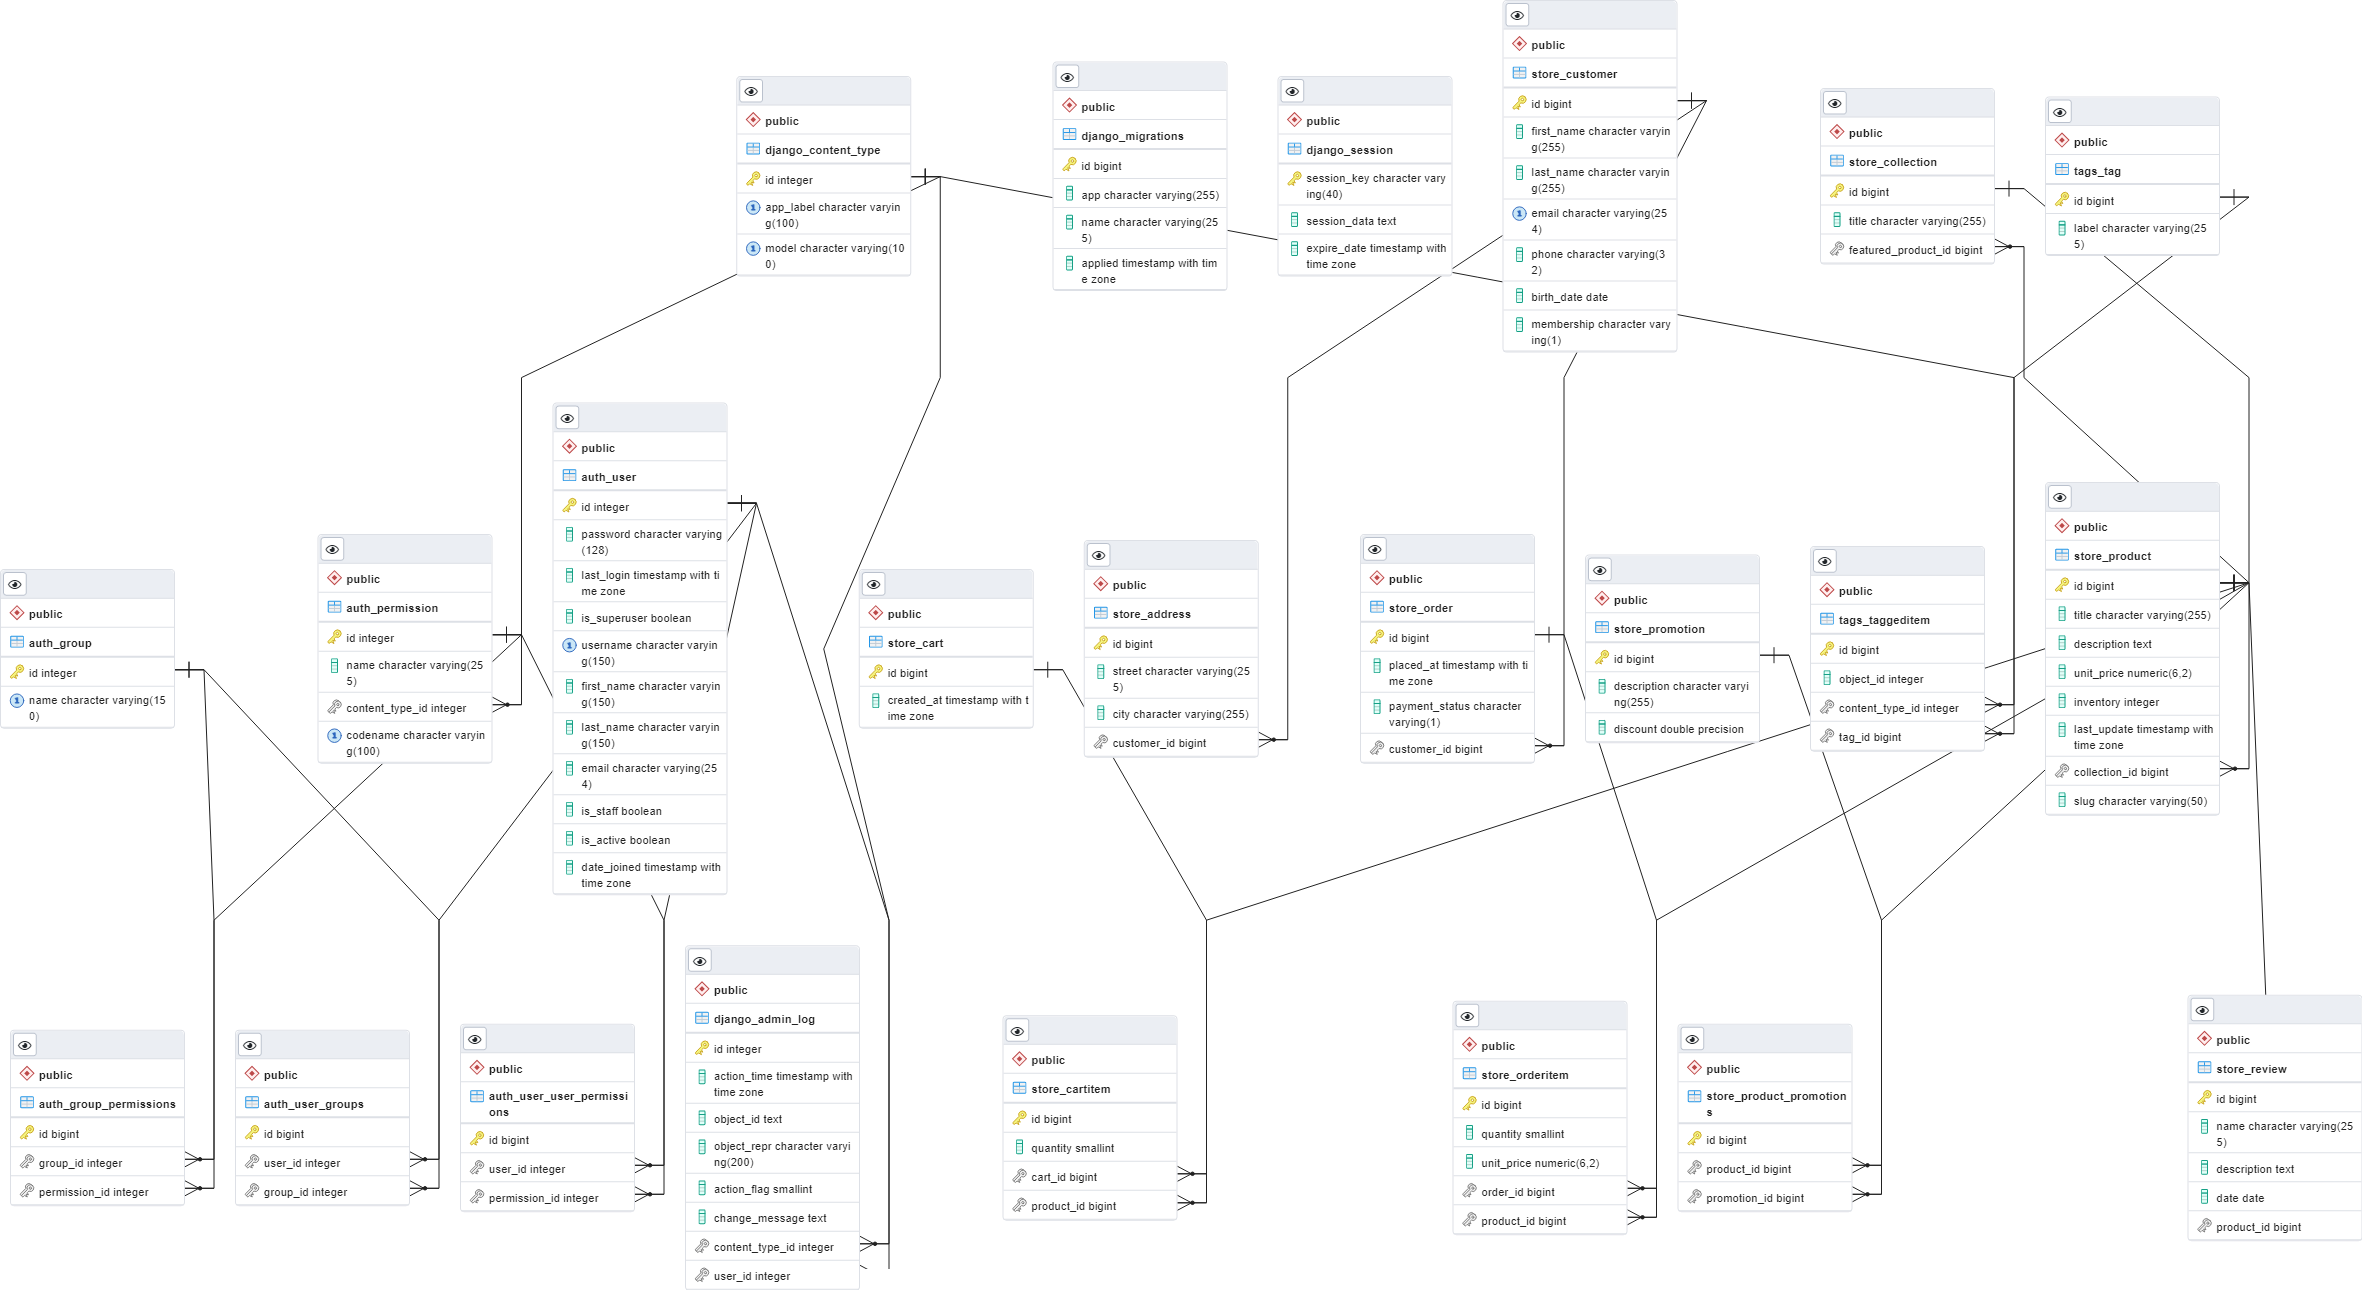
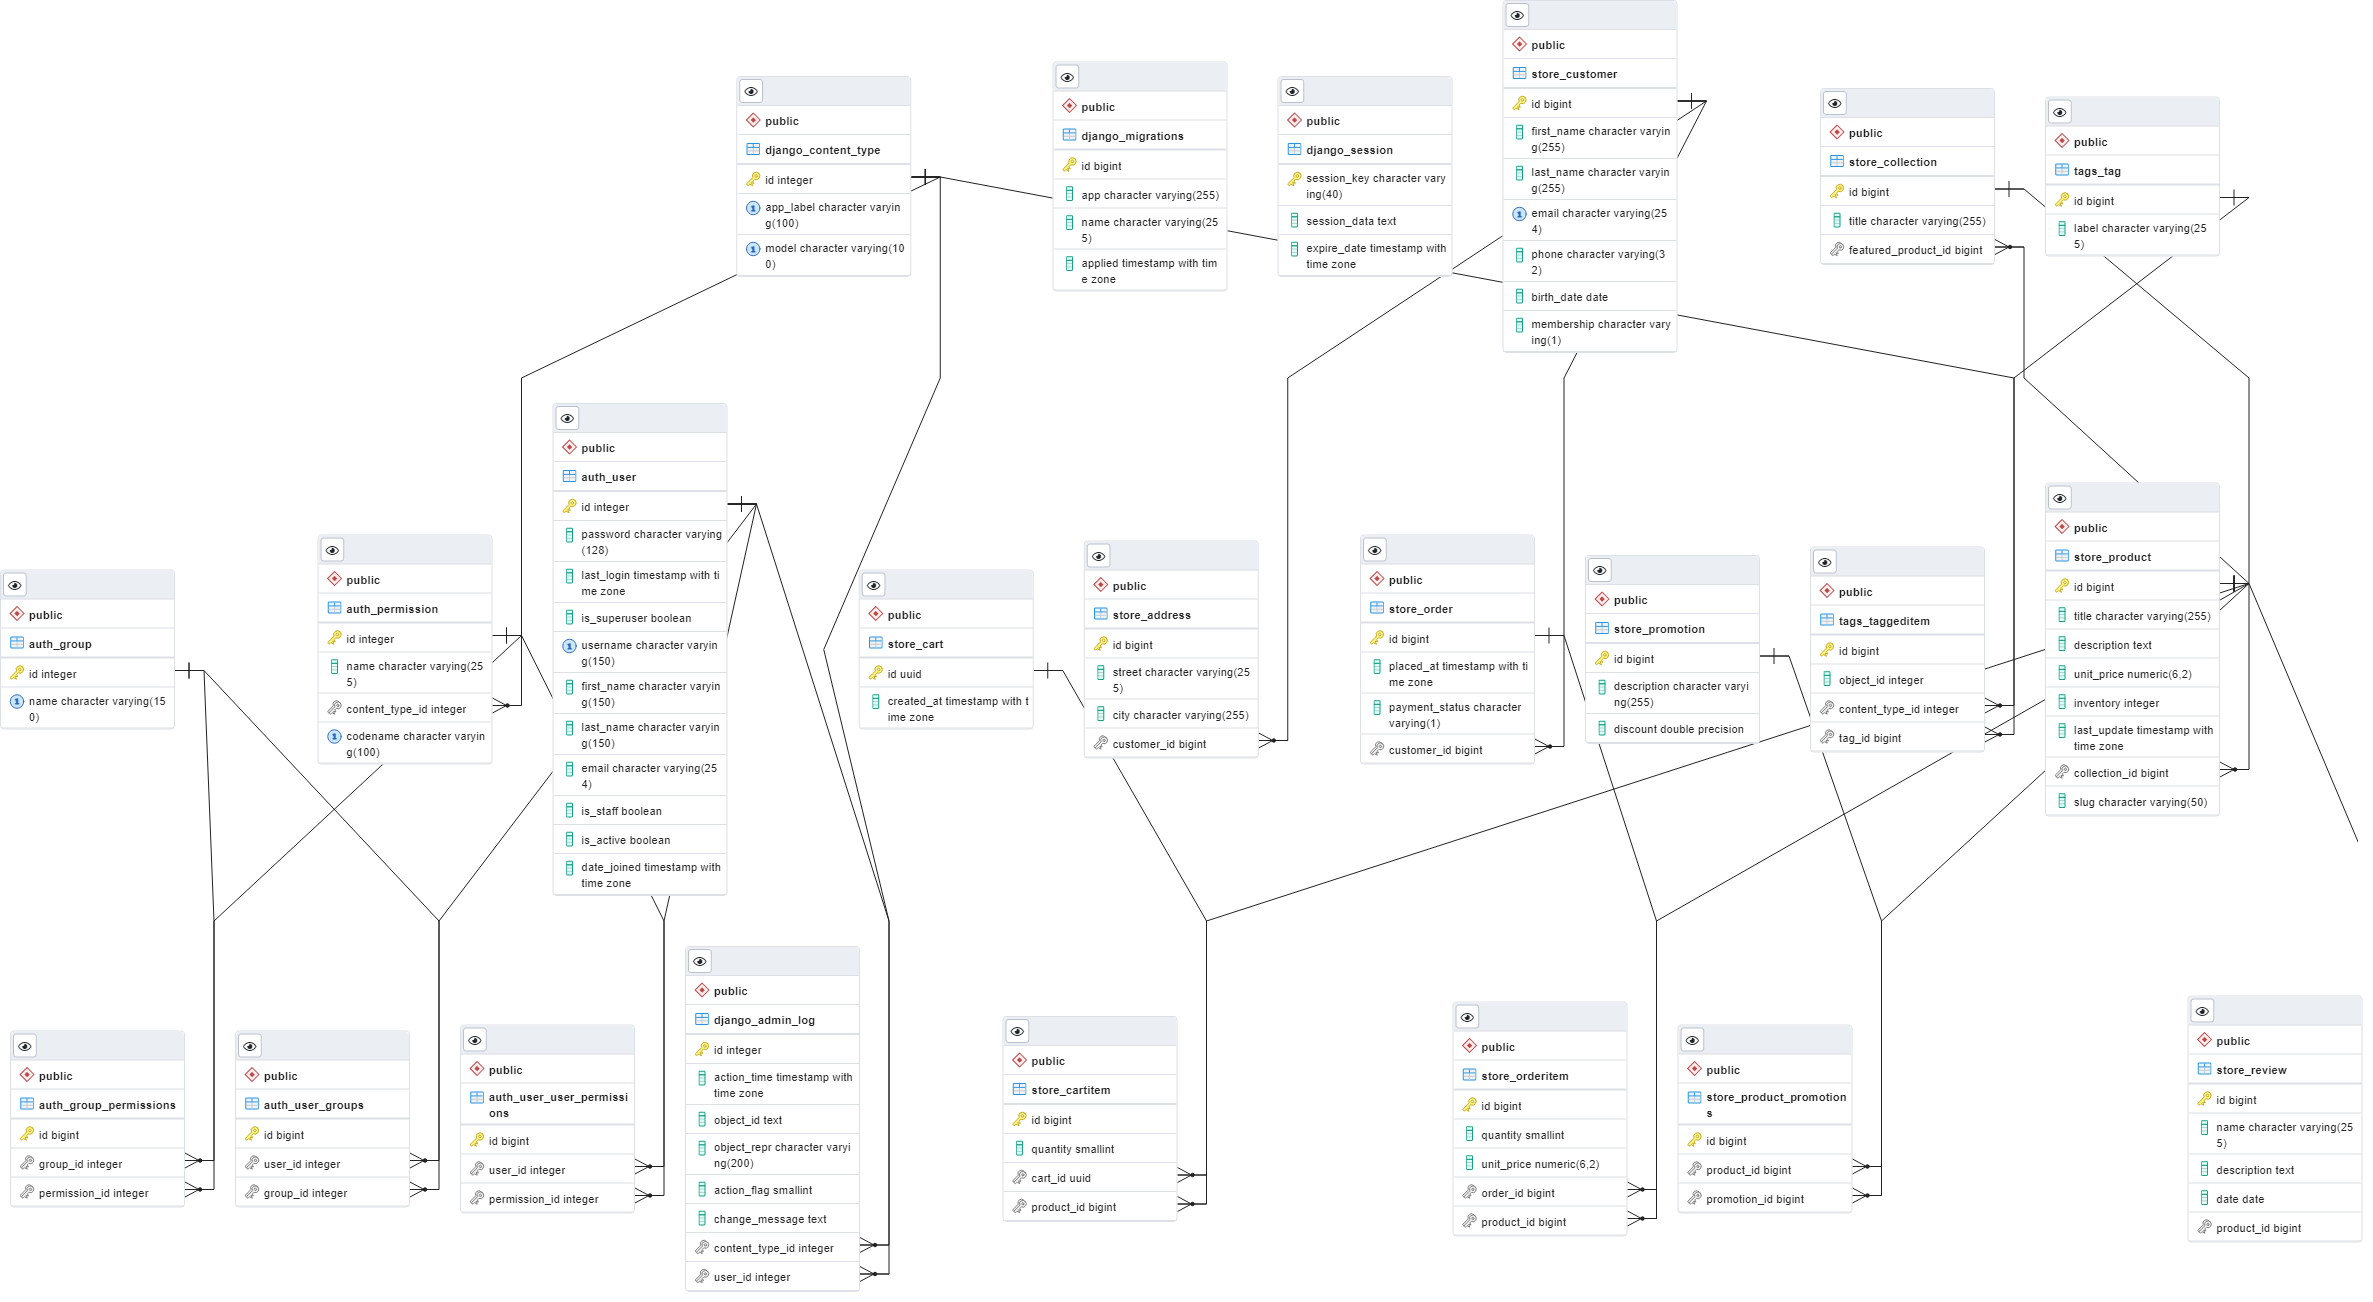
implement create cart for cart endpoint

diff --git a/store/views.py b/store/views.py
@@ -5,13 +5,14 @@ from rest_framework.response import Response
 from rest_framework import status
 from rest_framework.views import APIView
 from rest_framework.generics import ListCreateAPIView, RetrieveUpdateDestroyAPIView
-from rest_framework.viewsets import ModelViewSet
+from rest_framework.viewsets import ModelViewSet, GenericViewSet
 from rest_framework.filters import SearchFilter, OrderingFilter
 from rest_framework.pagination import PageNumberPagination
+from rest_framework.mixins import CreateModelMixin
 from django_filters.rest_framework import DjangoFilterBackend
 from store.filters import ProductFilter
-from store.models import Product, Collection, OrderItem, Review
-from store.serializers import ProductSerializer, CollectionSerializer, ReviewSerializer
+from store.models import Product, Collection, OrderItem, Review, Cart
+from store.serializers import ProductSerializer, CollectionSerializer, ReviewSerializer, CartSerializer
 
 
 # @api_view(["GET", "POST"])
@@ -260,7 +261,7 @@ class ProductViewSet(ModelViewSet):
     # pagination_class = PageNumberPagination
 
     def get_queryset(self):
-        # Define products API query-set and filter products based on their collections
+        # Define product API query-set and filter products based on their collections
         return Product.objects.all()
 
         # Blow code snippet is no longer needed since django-filter library is applied
@@ -292,7 +293,7 @@ class CollectionViewSet(ModelViewSet):
         and delete together """
 
     def get_queryset(self):
-        # Define collections API query-set
+        # Define collection API query-set
         return Collection.objects.all()
 
     def get_serializer_class(self):
@@ -315,7 +316,7 @@ class ReviewViewSet(ModelViewSet):
     """ Model view set for Review """
 
     def get_queryset(self):
-        # Define reviews API query-set
+        # Define review API query-set
         # Apply query-set to show reviews on reviewed products only
         return Review.objects.filter(product_id=self.kwargs["product_pk"])
 
@@ -326,3 +327,19 @@ class ReviewViewSet(ModelViewSet):
     def get_serializer_context(self):
         # Define review API context, use product pk to autopopulate product id in review post http method
         return {"request": self.request, "product_id": self.kwargs["product_pk"]}
+
+
+class CartViewSet(CreateModelMixin, GenericViewSet):
+    """
+    Custom view set using create model mixin for cart because cart doesn't have list or update.
+    Cart should not implement list or update actions.
+    List and update features are available for cart items
+    """
+
+    def get_queryset(self):
+        # Define cart API query-set
+        return Cart.objects.all()
+
+    def get_serializer_class(self):
+        # Define cart API serializer
+        return CartSerializer

diff --git a/store/serializers.py b/store/serializers.py
@@ -1,4 +1,4 @@
-from store.models import Product, Collection, Review
+from store.models import Product, Collection, Review, Cart
 from rest_framework import serializers
 from decimal import Decimal
 
@@ -73,3 +73,14 @@ class ReviewSerializer(serializers.ModelSerializer):
         product_id = self.context["product_id"]
         # Get product id defined in the views and unpack other validated data
         return Review.objects.create(product_id=product_id, **validated_data)
+
+
+class CartSerializer(serializers.ModelSerializer):
+    """ Create cart serializer from cart model """
+
+    # Set id to read-only in order to only read it from backend to avoid post action from the client
+    id = serializers.UUIDField(read_only=True)
+
+    class Meta():
+        model = Cart
+        fields = ["id"]

diff --git a/store/urls.py b/store/urls.py
@@ -7,7 +7,9 @@ from rest_framework_nested import routers
 router = routers.DefaultRouter()
 router.register("products", views.ProductViewSet, basename="products")
 router.register("collections", views.CollectionViewSet, basename="collections")
+router.register("carts", views.CartViewSet, basename="carts")
 # urlpatterns = router.urls
+
 
 # Set nested router using library drf-nested-routers
 product_router = routers.NestedDefaultRouter(router, "products", lookup="product")
